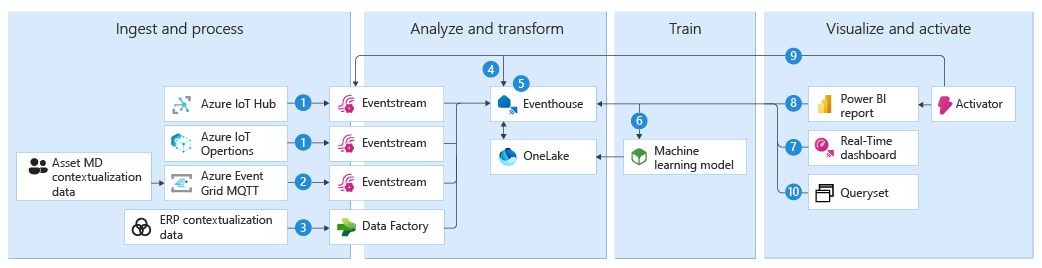
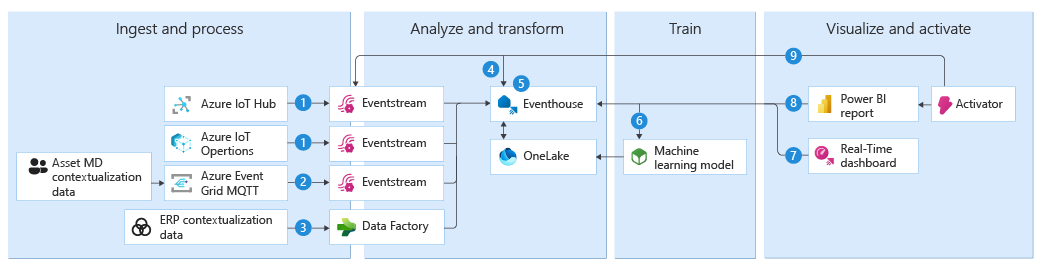
Updated images and text based on feedback

Changed region(s): [[0.737, 0.4776, 0.8906, 0.806]]

diff --git a/docs/real-time-intelligence/architectures/hospital-operations.md b/docs/real-time-intelligence/architectures/hospital-operations.md
@@ -21,7 +21,7 @@ Unlike traditional batch-based analytics architectures, hospital operations requ
  
 ## Architecture overview  
 
-The hospital operations reference architecture uses Microsoft Fabric Real-Time Intelligence to create a unified platform that processes real-time data from hospital systems and integrates digital twin representations for intelligent operations management. You can implement the architecture with five main operational phases: 
+The hospital operations reference architecture uses Microsoft Fabric Real-Time Intelligence to create a unified platform that processes real-time data from hospital systems and integrates digital twin representations for intelligent operations management. You can implement the architecture with five main operational phases: Ingest and process, Analyze, transform and enrich, Model and contextualize, Train, and Visualize and activate.
 
 :::image type="content" source="./media/hospital-operations.png" alt-text="Diagram showing the reference architecture for hospital operations." lightbox="./media/hospital-operations.png":::
 

diff --git a/docs/real-time-intelligence/architectures/internet-service-provider-analytics.md b/docs/real-time-intelligence/architectures/internet-service-provider-analytics.md
@@ -42,7 +42,6 @@ The architecture includes the following key steps:
 
 1. **Activate alerts** - Data Activator monitors router telemetry and generates real-time alerts on anomalies, threshold violations, and network issues.
 
-1. **Enable ad-hoc analysis** - Network operations teams use Kusto Query Language (KQL) queries for deep investigations and root-cause analysis, reducing investigation time from hours to minutes.
 
 
 ## Operational phases

diff --git a/docs/real-time-intelligence/architectures/energy-grid-management.md b/docs/real-time-intelligence/architectures/energy-grid-management.md
@@ -44,8 +44,6 @@ The energy grid management reference architecture uses Microsoft Fabric Real-Tim
 
 1. Power BI provides rich reports with a full business view on the energy generation and consumption rates.
 
-1. Use rich KQL queries for fast, direct, ad-hoc analytics.
-
 The following sections explain each operational phase in detail.
 
 ## Operational phases

diff --git a/docs/real-time-intelligence/architectures/energy-trading.md b/docs/real-time-intelligence/architectures/energy-trading.md
@@ -44,8 +44,6 @@ The energy trading management reference architecture uses Microsoft Fabric Real-
 
 1. Power BI reports provide a rich, full business view on the energy generation and consumption rates.
 
-1. Use rich KQL queries for fast, direct, ad-hoc analytics.
-
 ## Operational phases
 
 ### Ingest and process

diff --git a/docs/real-time-intelligence/architectures/connected-factory.md b/docs/real-time-intelligence/architectures/connected-factory.md
@@ -40,7 +40,6 @@ The connected factory reference architecture uses Microsoft Fabric Real-Time Int
 
 1. Notify on-site technicians in response to live indications from the factory floor.
 
-1. Use rich KQL queries for fast, direct, ad-hoc analytics.
 
 ## Operational phases
 
